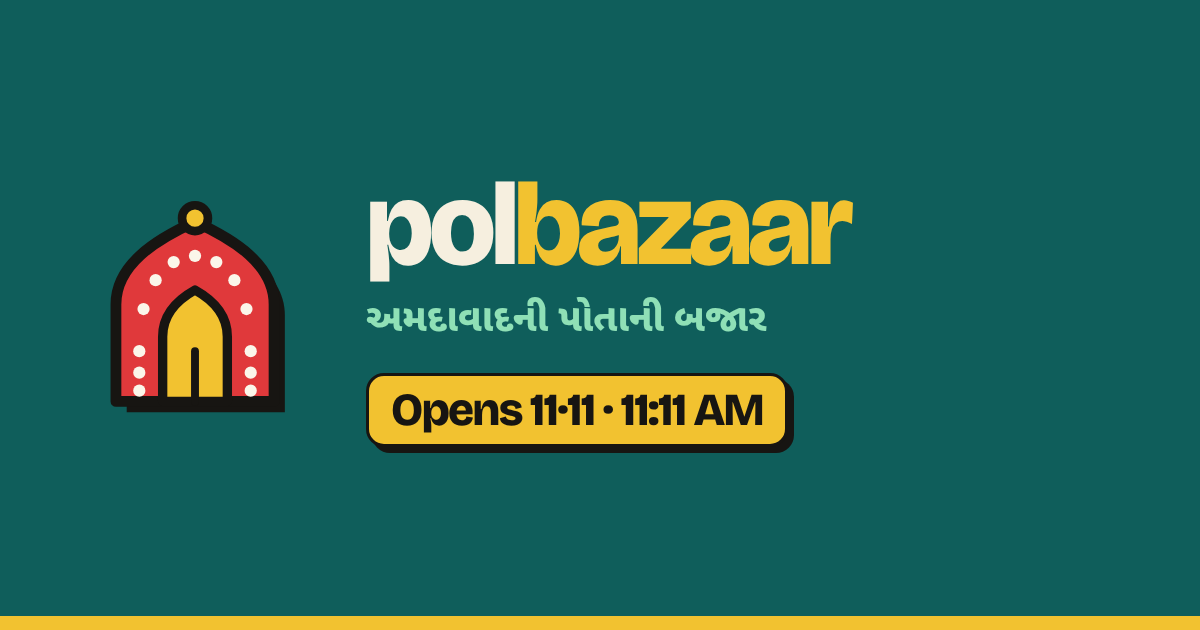
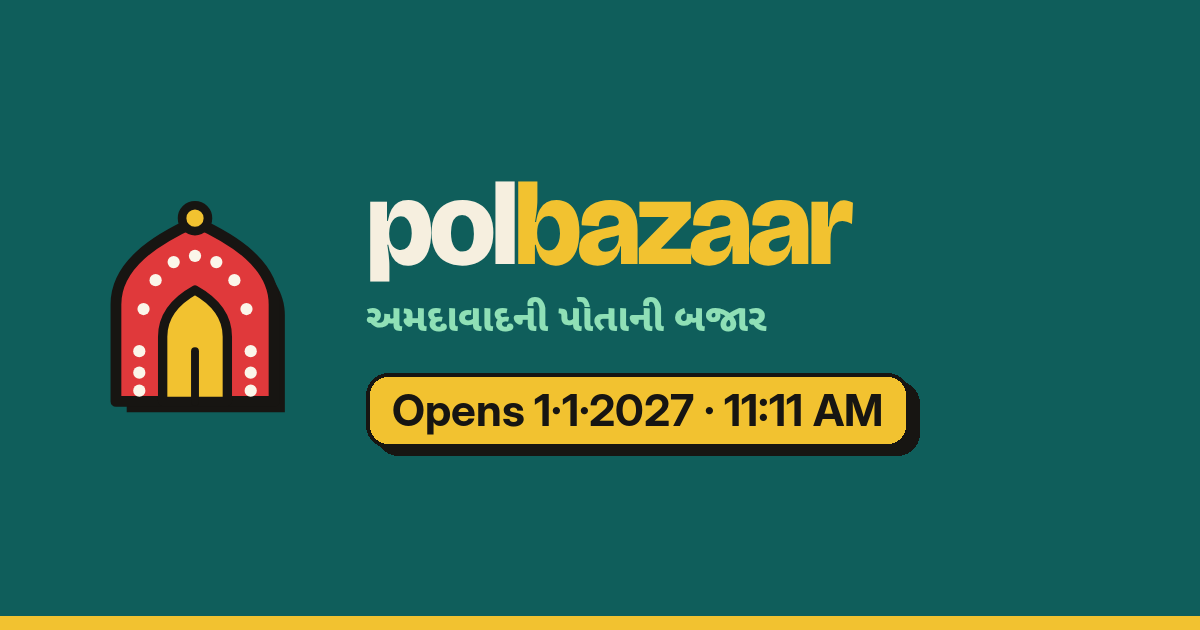
Move PolBazaar launch countdown to 1 Jan 2027, 11:11 AM IST
Claude-Session: https://claude.ai/code/session_01XCCMUPUovYi4a811DNEDpW

Changed region(s): [[0.3083, 0.573, 0.7708, 0.7238], [0.3083, 0.573, 0.3392, 0.6032]]

diff --git a/index.html b/index.html
@@ -3,14 +3,14 @@
 <head>
 <meta charset="utf-8">
 <meta name="viewport" content="width=device-width, initial-scale=1, viewport-fit=cover">
-<title>PolBazaar · Opening 11·11 at 11:11 AM</title>
-<meta name="description" content="PolBazaar, Amdavad's own bazaar, opens on Wednesday 11 November 2026 at 11:11 AM. Rent a flat, find a PG, buy and sell with real people in Ahmedabad and Gandhinagar.">
+<title>PolBazaar · Opening 1 Jan 2027 at 11:11 AM</title>
+<meta name="description" content="PolBazaar, Amdavad's own bazaar, opens on Friday 1 January 2027 at 11:11 AM. Rent a flat, find a PG, buy and sell with real people in Ahmedabad and Gandhinagar.">
 <meta name="theme-color" content="#0f5e5b">
 <link rel="canonical" href="https://polbazaar.com/">
 <meta property="og:site_name" content="PolBazaar">
 <meta property="og:type" content="website">
 <meta property="og:url" content="https://polbazaar.com/">
-<meta property="og:title" content="PolBazaar opens 11·11 at 11:11 AM">
+<meta property="og:title" content="PolBazaar opens 1 Jan 2027 at 11:11 AM">
 <meta property="og:description" content="Amdavad's own bazaar. Flats, PGs, roommates and second-hand everything, from real people in Ahmedabad and Gandhinagar.">
 <meta property="og:image" content="https://polbazaar.com/og.png">
 <meta property="og:image:width" content="1200">
@@ -193,12 +193,12 @@ footer .wrap{display:flex;flex-wrap:wrap;gap:8px 16px;justify-content:space-betw
       <p class="eyebrow"><i aria-hidden="true"></i>Opening soon</p>
       <h1><span class="w1">Becho.</span> Kharido.<br><span class="w2">Amdavad.</span></h1>
       <p class="guj">અમદાવાદની પોતાની બજાર</p>
-      <p class="lead">PolBazaar opens on <b>Wednesday 11 November at 11:11 AM</b>. Rent a flat, find a PG or a roommate, or sell your old Activa, with real people from Ahmedabad and Gandhinagar.</p>
+      <p class="lead">PolBazaar opens on <b>Friday 1 January 2027 at 11:11 AM</b>. Rent a flat, find a PG or a roommate, or sell your old Activa, with real people from Ahmedabad and Gandhinagar.</p>
     </div>
 
     <section aria-labelledby="cdTitle">
       <div class="ticket" id="pass">
-        <div><span class="tk-k">Launch pass · 11·11 · 11:11</span><h2 id="cdTitle">Doors open in</h2></div>
+        <div><span class="tk-k">Launch pass · 1·1·2027 · 11:11</span><h2 id="cdTitle">Doors open in</h2></div>
         <div class="cd" role="timer" aria-label="Time left until PolBazaar opens">
           <div class="u u-d"><b id="cdD">--</b><span>Days</span></div>
           <div class="u u-h"><b id="cdH">--</b><span>Hours</span></div>
@@ -207,16 +207,16 @@ footer .wrap{display:flex;flex-wrap:wrap;gap:8px 16px;justify-content:space-betw
         </div>
         <p class="sr" id="cdSr" aria-live="polite" style="position:absolute;width:1px;height:1px;overflow:hidden;clip:rect(0 0 0 0)"></p>
         <div class="perf" aria-hidden="true"></div>
-        <div class="when"><strong>Wed, 11 Nov 2026 · 11:11 AM</strong><small>India time (IST)</small></div>
+        <div class="when"><strong>Fri, 1 Jan 2027 · 11:11 AM</strong><small>India time (IST)</small></div>
         <div class="acts">
           <a class="btn btn-k" id="icsBtn" download="polbazaar-launch.ics" href="#"><svg viewBox="0 0 24 24" fill="none" stroke="currentColor" stroke-width="2.2" stroke-linecap="round" stroke-linejoin="round" aria-hidden="true"><rect x="3" y="5" width="18" height="16" rx="2"/><path d="M3 10h18M8 3v4M16 3v4"/></svg>Remind me</a>
-          <a class="btn btn-w" target="_blank" rel="noopener" href="https://calendar.google.com/calendar/render?action=TEMPLATE&amp;text=PolBazaar%20opens&amp;dates=20261111T054100Z/20261111T061100Z&amp;details=Amdavad%27s%20own%20bazaar%20opens%20at%2011%3A11%20AM.%20https%3A%2F%2Fpolbazaar.com&amp;location=https%3A%2F%2Fpolbazaar.com">Google Calendar</a>
-          <a class="btn btn-wa" target="_blank" rel="noopener" href="https://wa.me/?text=PolBazaar%20%E2%80%94%20Amdavad%27s%20own%20bazaar%20%E2%80%94%20opens%2011%C2%B711%20at%2011%3A11%20AM.%20Flats%2C%20PGs%2C%20roommates%20and%20more%20from%20real%20people%20in%20Ahmedabad%20%26%20Gandhinagar.%20https%3A%2F%2Fpolbazaar.com"><svg viewBox="0 0 24 24" fill="currentColor" aria-hidden="true"><path d="M12 2a10 10 0 0 0-8.6 15.1L2 22l5-1.3A10 10 0 1 0 12 2Zm0 18.2a8.2 8.2 0 0 1-4.2-1.2l-.3-.2-3 .8.8-2.9-.2-.3A8.2 8.2 0 1 1 12 20.2Zm4.5-6.1c-.2-.1-1.5-.7-1.7-.8-.2-.1-.4-.1-.6.1l-.8 1c-.1.2-.3.2-.5.1a6.7 6.7 0 0 1-3.3-2.9c-.2-.4.2-.4.7-1.3.1-.2 0-.3 0-.4l-.8-1.8c-.2-.5-.4-.4-.6-.4h-.5a1 1 0 0 0-.7.3 3 3 0 0 0-.9 2.2 5.2 5.2 0 0 0 1.1 2.8 11.9 11.9 0 0 0 4.6 4c1.7.7 2.4.8 3.2.7.5-.1 1.5-.6 1.7-1.2.2-.6.2-1.1.2-1.2-.1-.1-.3-.2-.5-.3Z"/></svg>Share on WhatsApp</a>
+          <a class="btn btn-w" target="_blank" rel="noopener" href="https://calendar.google.com/calendar/render?action=TEMPLATE&amp;text=PolBazaar%20opens&amp;dates=20270101T054100Z/20270101T061100Z&amp;details=Amdavad%27s%20own%20bazaar%20opens%20at%2011%3A11%20AM.%20https%3A%2F%2Fpolbazaar.com&amp;location=https%3A%2F%2Fpolbazaar.com">Google Calendar</a>
+          <a class="btn btn-wa" target="_blank" rel="noopener" href="https://wa.me/?text=PolBazaar%20%E2%80%94%20Amdavad%27s%20own%20bazaar%20%E2%80%94%20opens%201%20Jan%202027%20at%2011%3A11%20AM.%20Flats%2C%20PGs%2C%20roommates%20and%20more%20from%20real%20people%20in%20Ahmedabad%20%26%20Gandhinagar.%20https%3A%2F%2Fpolbazaar.com"><svg viewBox="0 0 24 24" fill="currentColor" aria-hidden="true"><path d="M12 2a10 10 0 0 0-8.6 15.1L2 22l5-1.3A10 10 0 1 0 12 2Zm0 18.2a8.2 8.2 0 0 1-4.2-1.2l-.3-.2-3 .8.8-2.9-.2-.3A8.2 8.2 0 1 1 12 20.2Zm4.5-6.1c-.2-.1-1.5-.7-1.7-.8-.2-.1-.4-.1-.6.1l-.8 1c-.1.2-.3.2-.5.1a6.7 6.7 0 0 1-3.3-2.9c-.2-.4.2-.4.7-1.3.1-.2 0-.3 0-.4l-.8-1.8c-.2-.5-.4-.4-.6-.4h-.5a1 1 0 0 0-.7.3 3 3 0 0 0-.9 2.2 5.2 5.2 0 0 0 1.1 2.8 11.9 11.9 0 0 0 4.6 4c1.7.7 2.4.8 3.2.7.5-.1 1.5-.6 1.7-1.2.2-.6.2-1.1.2-1.2-.1-.1-.3-.2-.5-.3Z"/></svg>Share on WhatsApp</a>
         </div>
       </div>
 
       <div class="ticket live" id="live" hidden>
-        <span class="tk-k">11·11 · 11:11</span>
+        <span class="tk-k">1·1·2027 · 11:11</span>
         <h2>We are open!</h2>
         <p>Amdavad's own bazaar is live. Post your first ad free.</p>
         <div class="perf" style="width:100%" aria-hidden="true"></div>
@@ -226,7 +226,7 @@ footer .wrap{display:flex;flex-wrap:wrap;gap:8px 16px;justify-content:space-betw
   </div>
 
   <section class="wrap sec" aria-labelledby="whatTitle">
-    <div class="sec-h"><h2 id="whatTitle">What opens on 11·11</h2><p>Property and PGs first. Everything else too.</p></div>
+    <div class="sec-h"><h2 id="whatTitle">What opens on 1 January</h2><p>Property and PGs first. Everything else too.</p></div>
     <div class="tiles">
       <div class="tile k0"><svg viewBox="0 0 24 24" fill="none" stroke="currentColor" stroke-width="1.8" stroke-linecap="round" stroke-linejoin="round" aria-hidden="true"><path d="M3 11 12 4l9 7"/><path d="M5 10v10h14V10"/><path d="M10 20v-5h4v5"/></svg><b>Flats &amp; houses</b><span>Rent or buy. Owners and brokers clearly marked, with an owners-only filter.</span></div>
       <div class="tile k1"><svg viewBox="0 0 24 24" fill="none" stroke="currentColor" stroke-width="1.8" stroke-linecap="round" stroke-linejoin="round" aria-hidden="true"><path d="M3 19V7M3 13h18v6M21 19v-6a3 3 0 0 0-3-3h-7v3"/><circle cx="7" cy="10.5" r="2"/></svg><b>PG &amp; hostels</b><span>Boys, girls and co-living. Verified badge after our team visits.</span></div>
@@ -246,7 +246,7 @@ footer .wrap{display:flex;flex-wrap:wrap;gap:8px 16px;justify-content:space-betw
   <section class="wrap sec" aria-labelledby="igTitle" style="padding-top:6px">
     <div class="follow">
       <span class="ig"><svg viewBox="0 0 24 24" fill="none" stroke="currentColor" stroke-width="2" stroke-linecap="round" stroke-linejoin="round" aria-hidden="true"><rect x="3" y="3" width="18" height="18" rx="5"/><circle cx="12" cy="12" r="4"/><circle cx="17.5" cy="6.5" r="1" fill="currentColor" stroke="none"/></svg></span>
-      <div><h2 id="igTitle">Follow the countdown on Instagram</h2><p><span class="handle">@pol.bazaar</span> · launch-day news, area guides and the 11:11 reveal.</p></div>
+      <div><h2 id="igTitle">Follow the countdown on Instagram</h2><p><span class="handle">@pol.bazaar</span> · launch-day news, area guides and the launch-day reveal.</p></div>
       <a class="btn btn-ig" href="https://www.instagram.com/pol.bazaar/" target="_blank" rel="noopener"><svg viewBox="0 0 24 24" fill="none" stroke="currentColor" stroke-width="2" stroke-linecap="round" stroke-linejoin="round" aria-hidden="true"><rect x="3" y="3" width="18" height="18" rx="5"/><circle cx="12" cy="12" r="4"/><circle cx="17.5" cy="6.5" r="1" fill="currentColor" stroke="none"/></svg>Follow @pol.bazaar</a>
     </div>
   </section>
@@ -262,8 +262,8 @@ footer .wrap{display:flex;flex-wrap:wrap;gap:8px 16px;justify-content:space-betw
 
 <script>
 (() => {
-  // 11 November 2026, 11:11 AM India time (UTC+5:30) = 05:41 UTC, whatever the visitor's clock zone.
-  const LAUNCH = Date.UTC(2026, 10, 11, 5, 41, 0);
+  // 1 January 2027, 11:11 AM India time (UTC+5:30) = 05:41 UTC, whatever the visitor's clock zone.
+  const LAUNCH = Date.UTC(2027, 0, 1, 5, 41, 0);
   const preview = new URLSearchParams(location.search).get('preview') === 'live';
   const $ = id => document.getElementById(id);
   const pad = n => String(n).padStart(2, '0');
@@ -282,7 +282,7 @@ footer .wrap{display:flex;flex-wrap:wrap;gap:8px 16px;justify-content:space-betw
 
   // "Remind me": a calendar file with a 10-minute alarm.
   const ics = ['BEGIN:VCALENDAR', 'VERSION:2.0', 'PRODID:-//PolBazaar//Launch//EN', 'CALSCALE:GREGORIAN', 'BEGIN:VEVENT',
-    'UID:launch-20261111@polbazaar.com', 'DTSTAMP:20261023T000000Z', 'DTSTART:20261111T054100Z', 'DTEND:20261111T061100Z',
+    'UID:launch-20270101@polbazaar.com', 'DTSTAMP:20261125T000000Z', 'DTSTART:20270101T054100Z', 'DTEND:20270101T061100Z',
     'SUMMARY:PolBazaar opens', "DESCRIPTION:Amdavad's own bazaar opens at 11:11 AM. https://polbazaar.com", 'URL:https://polbazaar.com',
     'BEGIN:VALARM', 'TRIGGER:-PT10M', 'ACTION:DISPLAY', 'DESCRIPTION:PolBazaar opens in 10 minutes', 'END:VALARM', 'END:VEVENT', 'END:VCALENDAR'].join('\r\n');
   $('icsBtn').href = 'data:text/calendar;charset=utf-8,' + encodeURIComponent(ics);

diff --git a/404.html b/404.html
@@ -3,11 +3,11 @@
 <head>
 <meta charset="utf-8">
 <meta name="viewport" content="width=device-width, initial-scale=1">
-<title>PolBazaar · Opening 11·11</title>
+<title>PolBazaar · Opening 1 Jan 2027</title>
 <meta http-equiv="refresh" content="0; url=/">
 <link rel="icon" href="/favicon.svg" type="image/svg+xml">
 </head>
 <body style="margin:0;font:16px system-ui,sans-serif;background:#f1e8d4;color:#171512;display:grid;place-items:center;min-height:100vh">
-<p>PolBazaar opens on 11·11 at 11:11 AM. <a href="/">Go to the countdown</a>.</p>
+<p>PolBazaar opens on 1 January 2027 at 11:11 AM. <a href="/">Go to the countdown</a>.</p>
 </body>
 </html>

diff --git a/README.md b/README.md
@@ -1,7 +1,7 @@
 # polbazaar.com
 
 Coming soon page for PolBazaar, Amdavad's own bazaar. It counts down to the launch on
-**Wednesday 11 November 2026, 11:11 AM IST** and is served by GitHub Pages on `polbazaar.com`.
+**Friday 1 January 2027, 11:11 AM IST** and is served by GitHub Pages on `polbazaar.com`.
 
 | File | What it is |
 | --- | --- |
